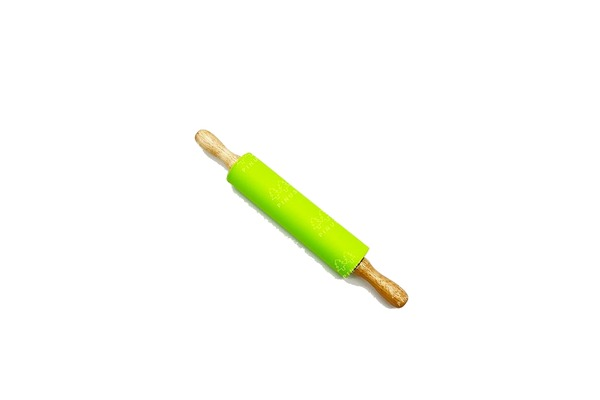
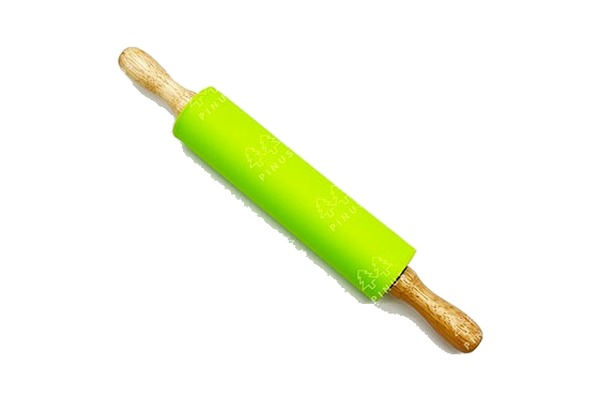
fix: ukuran objek seragam, auto-crop putih, frame lebih tinggi

Changed region(s): [[0.18, 0.12, 0.81, 0.9]]

diff --git a/index.html b/index.html
@@ -93,15 +93,16 @@ nav {
 }
 .service-card:hover { transform: translateY(-4px); }
 .service-card-img {
-  width: 100%; height: 220px; overflow: hidden;
+  width: 100%; height: 280px; overflow: hidden;
   background: #fff;
   display: flex; align-items: center; justify-content: center;
   border-radius: 16px;
   box-shadow: 0 2px 14px rgba(0,0,0,0.09);
 }
 .service-card-img img {
-  width: 100%; height: 100%; object-fit: contain; object-position: center;
-  background: #fff; padding: 12px;
+  max-width: 90%; max-height: 90%;
+  width: auto; height: auto;
+  object-fit: contain;
 }
 .service-card-body { padding: 20px; }
 .service-card-body h3 { font-size: 18px; font-weight: 700; margin-bottom: 10px; }
